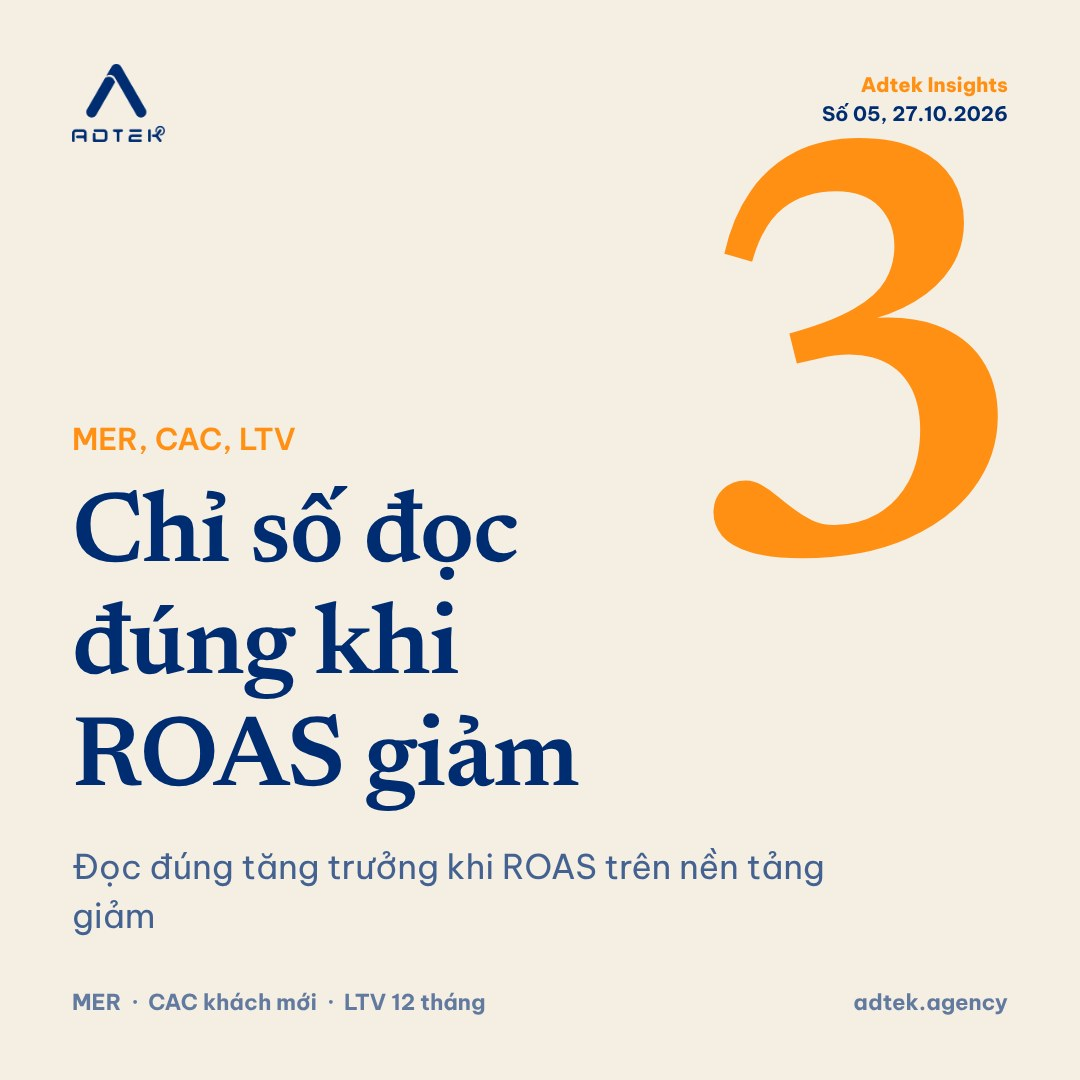
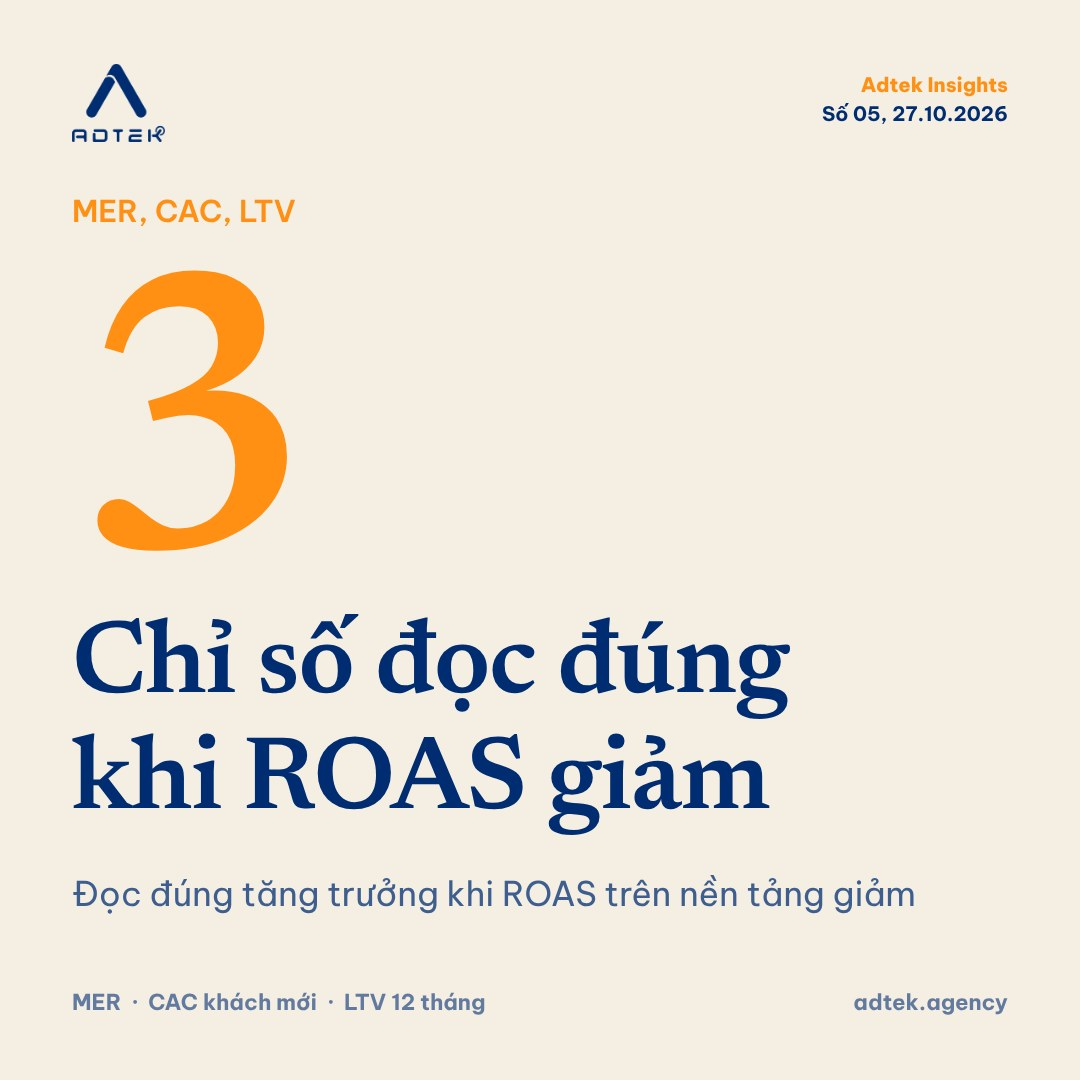
Covers: number always sits right before its phrase (left or above), tighter number-phrase units
Claude-Session: https://claude.ai/code/session_01Wp8F7EosGPrY7v6XwBpRSM

diff --git a/tools/covers.py b/tools/covers.py
@@ -42,7 +42,8 @@ $css
 /* Chữ: tiêu đề và con số dùng Newsreader (chữ có chân kiểu báo chí), viết thường như câu; nhãn và mô tả dùng Be Vietnam Pro nhẹ.
    Đặt sau CSS của từng phong cách để thống nhất kiểu chữ cho cả bộ. */
 h1,.num,.name,.cap,.disc span,.vs{font-family:NR,serif;font-weight:600;text-transform:none;letter-spacing:-.012em}
-.num,.disc span{letter-spacing:-.03em}
+.num,.disc span{letter-spacing:-.03em;font-variant-numeric:lining-nums}
+.kicker+.num{margin-top:.1em}  /* phần trên của chữ số cao hơn khung dòng, chừa chỗ để không chạm nhãn */
 .kicker{font-weight:600;letter-spacing:0}
 .sub,.band{font-weight:400}
 </style></head><body class="$shape" data-fit="1">$body
@@ -82,6 +83,8 @@ def fields(post, kind):
         "head": esc((c.get("hero_text") or c["title"]) if fb else c["title"]),
         "num": esc(c.get("hero") or f"{post['no']:02d}"),
         "cap": esc(c.get("hero_text") or ""),
+        # paired: tiêu đề chính là cụm chữ đọc liền sau con số (khổ Facebook), nên số phải đứng ngay trước tiêu đề
+        "paired": fb and bool(c.get("hero_text")),
         "title": esc(c["title"]),
         "sub": esc(c["subtitle"]),
         "chips": [esc(x) for x in c.get("chips", [])[:4]],
@@ -136,78 +139,85 @@ font-weight:700;font-size:{v['sub']:.0f}px;line-height:1.38;text-align:left;text
 
 
 def editorial(f, sq):
-    """Tạp chí: nền kem phẳng, số cam đặc khổng lồ, tiêu đề navy đậm, không kẻ dòng."""
+    """Tạp chí: nền kem phẳng, số cam lớn đặt ngay trên cụm chữ đi kèm, chữ navy."""
     n = len(f["num"])
-    hero = (600 if n == 1 else 460 if n == 2 else 300) if sq else (430 if n == 1 else 300 if n == 2 else 200)
     chips = " &nbsp;·&nbsp; ".join(f["chips"][:3])
+    if f["paired"]:  # số đọc liền với tiêu đề: số ở trên, tiêu đề ngay dưới
+        hero = 400 if n == 1 else 340 if n == 2 else 230
+        main = f"""<div class="copy"><div class="kicker">{f['kicker']}</div><div class="num">{f['num']}</div>
+<h1 class="fit bal">{f['head']}</h1><div class="sub fit">{f['sub']}</div></div>"""
+    else:  # tiêu đề riêng; số và cụm chữ của nó thành một khối bên phải, số trên chữ dưới
+        hero = 300 if n == 1 else 230 if n == 2 else 160
+        unit = f'<div class="unit"><div class="num">{f["num"]}</div><div class="cap fit bal">{f["cap"]}</div></div>' if f["cap"] else ""
+        main = f"""<div class="copy"><div class="kicker">{f['kicker']}</div><h1 class="fit bal">{f['head']}</h1><div class="sub fit">{f['sub']}</div></div>{unit}"""
     css = f"""
 body{{background:{CREAM};color:{NAVY}}}
 .meta{{position:absolute;text-align:right;font-weight:700;line-height:1.45;color:{NAVY}}}
 .meta b{{font-weight:800;color:{ORANGE}}}
-.num{{position:absolute;font-weight:900;font-size:{hero}px;line-height:.8;letter-spacing:-.06em;color:{ORANGE};white-space:nowrap}}
-.copy{{position:absolute}}
-.kicker{{font-weight:800;color:{ORANGE}}}
-h1{{font-weight:900;line-height:1.12;letter-spacing:-.015em}}
-.sub{{font-weight:600;line-height:1.42;color:rgba(0,45,114,.72)}}
+.num{{font-size:{hero}px;line-height:.8;color:{ORANGE};white-space:nowrap}}
+.copy,.unit{{position:absolute}}
+.kicker{{color:{ORANGE}}}
+h1{{line-height:1.12}}
+.sub{{line-height:1.42;color:rgba(0,45,114,.75)}}
+.cap{{line-height:1.15;margin-top:-8px;max-height:3.6em}}
 .foot{{position:absolute;display:flex;justify-content:space-between;font-weight:700;color:rgba(0,45,114,.6)}}
 .sq .lg{{position:absolute;left:72px;top:64px}}.sq .meta{{right:72px;top:70px;font-size:20px}}
-.sq .num{{right:56px;top:170px}}
-.sq .copy{{left:72px;right:72px;bottom:140px}}
-.sq .kicker{{font-size:30px}}
-.sq h1{{font-size:100px;margin:14px 0 22px;max-height:3.5em;max-width:640px}}
-.sq .sub{{font-size:34px;max-width:820px;max-height:4.4em}}
+.sq .copy{{left:72px;right:72px;top:150px;bottom:120px;display:flex;flex-direction:column;justify-content:center}}
+.sq .kicker{{font-size:30px;margin-bottom:22px}}
+.sq h1{{font-size:104px;margin:-.12em 0 24px;max-height:3.4em}}
+.sq .sub{{font-size:34px;max-width:860px;max-height:3em}}
 .sq .foot{{left:72px;right:72px;bottom:64px;font-size:22px}}
 .ls .lg{{position:absolute;left:140px;top:44px}}.ls .meta{{right:140px;top:50px;font-size:15px}}
-.ls .num{{right:140px;top:140px}}
-.ls .copy{{left:140px;top:160px;width:{600 if n == 1 else 540}px}}
+.ls .copy{{left:140px;top:150px;width:520px}}
 .ls .kicker{{font-size:22px}}
 .ls h1{{font-size:76px;margin:10px 0 16px;max-height:2.3em}}
 .ls .sub{{font-size:25px;max-height:4.4em}}
+.ls .unit{{left:740px;right:140px;top:150px}}
+.ls .cap{{font-size:28px}}
 .ls .foot{{left:140px;right:140px;bottom:42px;font-size:17px}}"""
     body = f"""<div class="lg">{logo(NAVY, 78 if sq else 58)}</div><div class="meta"><b>Adtek Insights</b><br>Số {f['no']:02d}, {f['date']}</div>
-<div class="num">{f['num']}</div>
-<div class="copy"><div class="kicker">{f['kicker']}</div><h1 class="fit bal">{f['head']}</h1><div class="sub fit">{f['sub']}</div></div>
-<div class="foot"><div>{chips}</div><div>adtek.agency</div></div>"""
+{main}<div class="foot"><div>{chips}</div><div>adtek.agency</div></div>"""
     return css, body
 
 
 def split(f, sq):
-    """Khối tương phản: mảng cam cắt chéo chứa số navy, nửa còn lại navy chứa tiêu đề. Màu phẳng."""
+    """Khối tương phản: mảng cam cắt chéo chứa số navy và cụm chữ đi kèm ngay bên phải hoặc ngay bên dưới số."""
     n = len(f["num"])
     chips = " &nbsp;·&nbsp; ".join(f["chips"][:3])
     if sq:
-        hero = 520 if n == 1 else 360 if n == 2 else 240
-        own_head = f["head"] != f["cap"]
+        hero = 400 if n == 1 else 330 if n == 2 else 220
         css = f"""
 body{{background:{NAVY};color:#fff}}
-.panel{{position:absolute;left:0;top:0;right:0;height:560px;background:{ORANGE};clip-path:polygon(0 0,100% 0,100% 74%,0 100%)}}
-.num{{position:absolute;left:56px;top:60px;font-weight:900;font-size:{hero}px;line-height:.82;letter-spacing:-.05em;color:{NAVY};white-space:nowrap}}
-.cap{{position:absolute;right:72px;top:250px;width:{420 if n == 1 else 360}px;font-weight:900;font-size:48px;line-height:1.14;color:{NAVY};max-height:4.7em}}
-.lg{{position:absolute;right:72px;top:64px}}
+.panel{{position:absolute;left:0;top:0;right:0;height:580px;background:{ORANGE};clip-path:polygon(0 0,100% 0,100% 72%,0 100%)}}
+.unit{{position:absolute;left:64px;right:72px;top:150px;display:flex;align-items:flex-end;gap:30px}}
+.num{{flex:none;font-size:{hero}px;line-height:.8;color:{NAVY};white-space:nowrap}}
+.cap{{flex:1;font-size:56px;line-height:1.1;color:{NAVY};max-height:3.4em;padding-bottom:6px}}
+.lg{{position:absolute;right:72px;top:56px}}
 .copy{{position:absolute;left:72px;right:72px;bottom:72px}}
-.kicker{{color:{ORANGE};font-weight:800;font-size:30px}}
-h1{{font-weight:900;font-size:76px;line-height:1.14;margin:12px 0 20px;max-height:3.5em}}
-.sub{{font-weight:600;font-size:32px;line-height:1.4;color:#C9D6EE;max-height:4.4em}}
-.chips{{font-weight:700;font-size:24px;color:{ORANGE}}}"""
-        body = f"""<div class="panel"></div><div class="num">{f['num']}</div><div class="lg">{logo(NAVY, 92)}</div>
-<div class="cap fit bal">{f['cap'] or f['kicker']}</div>
-<div class="copy"><div class="kicker">{f['kicker']}</div><h1 class="fit bal">{f['head'] if own_head else f['sub']}</h1>
-{f'<div class="sub fit">{f["sub"]}</div>' if own_head else ''}<div class="chips">{chips}</div></div>"""
+.kicker{{color:{ORANGE};font-size:30px}}
+h1{{font-size:68px;line-height:1.14;margin:12px 0 20px;max-height:3.5em}}
+.sub{{font-size:32px;line-height:1.4;color:#C9D6EE;max-height:4.4em}}
+.chips{{font-weight:600;font-size:24px;color:{ORANGE}}}"""
+        rest = f'<h1 class="fit bal">{f["sub"]}</h1>' if f["paired"] else f'<h1 class="fit bal">{f["head"]}</h1><div class="sub fit">{f["sub"]}</div>'
+        body = f"""<div class="panel"></div><div class="lg">{logo(NAVY, 84)}</div>
+<div class="unit"><div class="num">{f['num']}</div><div class="cap fit bal">{f['cap'] or f['kicker']}</div></div>
+<div class="copy"><div class="kicker">{f['kicker']}</div>{rest}<div class="chips">{chips}</div></div>"""
         return css, body
-    hero = 400 if n == 1 else 240 if n == 2 else 170
+    hero = 300 if n == 1 else 220 if n == 2 else 150
     css = f"""
 body{{background:{NAVY};color:#fff}}
-.panel{{position:absolute;left:0;top:0;bottom:0;width:560px;background:{ORANGE};clip-path:polygon(0 0,100% 0,80% 100%,0 100%)}}
-.num{{position:absolute;left:140px;top:50%;transform:translateY(-54%);width:300px;text-align:center;font-weight:900;font-size:{hero}px;line-height:.82;letter-spacing:-.05em;color:{NAVY};white-space:nowrap}}
-.cap{{position:absolute;left:140px;bottom:46px;width:300px;text-align:center;font-weight:800;font-size:22px;line-height:1.25;color:{NAVY};max-height:2.7em}}
-.copy{{position:absolute;left:590px;right:140px;top:0;bottom:0;display:flex;flex-direction:column;justify-content:center}}
+.panel{{position:absolute;left:0;top:0;bottom:0;width:580px;background:{ORANGE};clip-path:polygon(0 0,100% 0,80% 100%,0 100%)}}
+.unit{{position:absolute;left:140px;width:300px;top:0;bottom:0;display:flex;flex-direction:column;justify-content:center}}
+.num{{font-size:{hero}px;line-height:.8;color:{NAVY};white-space:nowrap}}
+.cap{{margin-top:16px;font-size:32px;line-height:1.12;color:{NAVY};max-height:3.4em}}
+.copy{{position:absolute;left:600px;right:140px;top:0;bottom:0;display:flex;flex-direction:column;justify-content:center}}
 .lg{{position:absolute;right:140px;top:44px}}
-.kicker{{color:{ORANGE};font-weight:800;font-size:24px}}
-h1{{font-weight:900;font-size:84px;line-height:1.1;margin:10px 0 16px;max-height:2.3em}}
-.sub{{font-weight:600;font-size:25px;line-height:1.4;color:#C9D6EE;max-height:4.3em}}
-.chips{{margin-top:22px;font-weight:700;font-size:19px;color:{ORANGE}}}"""
-    body = f"""<div class="panel"></div><div class="num">{f['num']}</div><div class="cap fit bal">{f['cap']}</div>
-<div class="lg">{logo('#fff', 64)}</div>
+.kicker{{color:{ORANGE};font-size:23px}}
+h1{{font-size:80px;line-height:1.1;margin:10px 0 16px;max-height:2.3em}}
+.sub{{font-size:25px;line-height:1.4;color:#C9D6EE;max-height:4.3em}}
+.chips{{margin-top:22px;font-weight:600;font-size:19px;color:{ORANGE}}}"""
+    body = f"""<div class="panel"></div><div class="unit"><div class="num">{f['num']}</div><div class="cap fit bal">{f['cap']}</div></div>
+<div class="lg">{logo('#fff', 60)}</div>
 <div class="copy"><div class="kicker">{f['kicker']}</div><h1 class="fit bal">{f['head']}</h1><div class="sub fit">{f['sub']}</div><div class="chips">{chips}</div></div>"""
     return css, body
 
@@ -248,64 +258,75 @@ h1{{font-weight:900;line-height:1.12;letter-spacing:-.01em}}
 
 
 def stack(f, sq):
-    """Hai tầng màu: khối navy chứa tiêu đề, nền kem chứa mô tả, đĩa cam đặc chứa con số."""
+    """Hai tầng màu: khối navy và nền kem; đĩa cam chứa con số, cụm chữ đi kèm nằm ngay bên phải hoặc ngay dưới đĩa."""
     n = len(f["num"])
+    if sq:
+        css = f"""
+body{{background:{CREAM};color:{NAVY}}}
+.top{{position:absolute;left:0;right:0;top:0;height:660px;background:{NAVY};color:#fff;padding:190px 72px 0}}
+.lg{{position:absolute;left:72px;top:64px}}
+.kicker{{color:{ORANGE};font-size:30px;margin-bottom:30px}}
+.row{{display:flex;align-items:center;gap:36px}}
+.disc{{flex:none;width:280px;height:280px;border-radius:50%;background:{ORANGE};display:flex;align-items:center;justify-content:center}}
+.disc span{{font-size:{170 if n == 1 else 140 if n == 2 else 90}px;line-height:1;color:{NAVY};white-space:nowrap}}
+h1{{flex:1;font-size:74px;line-height:1.12;max-height:4.5em}}
+.sub{{position:absolute;left:72px;right:72px;top:730px;font-size:40px;line-height:1.38;max-height:4.2em}}
+.chips{{position:absolute;left:72px;bottom:64px;font-weight:600;font-size:24px;color:{ORANGE}}}"""
+        head = f["head"] if f["paired"] else f["cap"] or f["head"]
+        body = f"""<div class="top"><div class="kicker">{f['kicker']}</div><div class="row"><div class="disc"><span>{f['num']}</span></div>
+<h1 class="fit bal">{head}</h1></div></div><div class="lg">{logo('#fff', 74)}</div><div class="sub fit">{f['sub']}</div>
+<div class="chips">{' &nbsp;·&nbsp; '.join(f['chips'][:3])}</div>"""
+        return css, body
     css = f"""
 body{{background:{CREAM};color:{NAVY}}}
-.top{{position:absolute;background:{NAVY};color:#fff}}
-.kicker{{color:{ORANGE};font-weight:800}}
-h1{{font-weight:900;line-height:1.12;letter-spacing:-.01em}}
-.sub{{position:absolute;font-weight:700;line-height:1.42}}
-.disc{{position:absolute;border-radius:50%;background:{ORANGE};display:flex;align-items:center;justify-content:center}}
-.disc span{{font-weight:900;line-height:1;letter-spacing:-.05em;color:{NAVY};white-space:nowrap;transform:translateY(-.04em)}}
-.lg{{position:absolute}}
-.sq .top{{left:0;right:0;top:0;height:640px;padding:200px 72px 0}}
-.sq .lg{{left:72px;top:64px}}
-.sq .kicker{{font-size:30px}}
-.sq h1{{font-size:96px;margin-top:14px;max-height:3.4em;max-width:900px}}
-.sq .sub{{left:72px;bottom:72px;width:520px;font-size:32px;max-height:5.8em}}
-.sq .disc{{width:400px;height:400px;right:72px;top:520px}}
-.sq .disc span{{font-size:{230 if n == 1 else 190 if n == 2 else 120}px}}
-.ls .top{{left:0;top:0;bottom:0;width:740px;padding:0 60px 0 140px;display:flex;flex-direction:column;justify-content:center}}
-.ls .lg{{left:140px;top:44px}}
-.ls .kicker{{font-size:23px}}
-.ls h1{{font-size:80px;margin:10px 0 0;max-height:3.4em}}
-.ls .sub{{left:780px;right:140px;bottom:56px;font-size:20px;max-height:4.3em}}
-.ls .disc{{width:280px;height:280px;left:785px;top:60px}}
-.ls .disc span{{font-size:{170 if n == 1 else 130 if n == 2 else 84}px}}"""
-    body = f"""<div class="top"><div class="kicker">{f['kicker']}</div><h1 class="fit bal">{f['head']}</h1></div>
-<div class="lg">{logo('#fff', 74 if sq else 56)}</div><div class="disc"><span>{f['num']}</span></div><div class="sub fit">{f['sub']}</div>"""
+.top{{position:absolute;left:0;top:0;bottom:0;width:740px;padding:0 60px 0 140px;background:{NAVY};color:#fff;display:flex;flex-direction:column;justify-content:center}}
+.lg{{position:absolute;left:140px;top:44px}}
+.kicker{{color:{ORANGE};font-size:23px}}
+h1{{font-size:80px;line-height:1.12;margin:10px 0 16px;max-height:2.3em}}
+.sub{{font-size:24px;line-height:1.42;color:#C9D6EE;max-height:4.3em}}
+.unit{{position:absolute;left:780px;right:140px;top:0;bottom:0;display:flex;flex-direction:column;justify-content:center}}
+.disc{{width:220px;height:220px;border-radius:50%;background:{ORANGE};display:flex;align-items:center;justify-content:center}}
+.disc span{{font-size:{140 if n == 1 else 110 if n == 2 else 70}px;line-height:1;color:{NAVY};white-space:nowrap}}
+.cap{{margin-top:18px;font-size:30px;line-height:1.15;max-height:3.5em}}"""
+    unit = f'<div class="unit"><div class="disc"><span>{f["num"]}</span></div><div class="cap fit bal">{f["cap"]}</div></div>' if f["cap"] else ""
+    body = f"""<div class="top"><div class="kicker">{f['kicker']}</div><h1 class="fit bal">{f['head']}</h1><div class="sub fit">{f['sub']}</div></div>
+<div class="lg">{logo('#fff', 56)}</div>{unit}"""
     return css, body
 
 
 def poster(f, sq):
-    """Áp phích: nền cam phẳng, số navy khổng lồ tràn mép, tiêu đề in hoa, góc tròn navy giữ logo."""
+    """Áp phích: nền cam phẳng, số navy rất lớn đứng ngay trước cụm chữ đi kèm (trên chữ ở khổ vuông, trái chữ ở khổ ngang)."""
     n = len(f["num"])
-    hero = (720 if n == 1 else 600 if n == 2 else 400) if sq else (600 if n == 1 else 420 if n == 2 else 280)
     css = f"""
 body{{background:{ORANGE};color:{NAVY}}}
-.num{{position:absolute;font-weight:900;font-size:{hero}px;line-height:.78;letter-spacing:-.06em;color:{NAVY};white-space:nowrap}}
 .corner{{position:absolute;border-radius:50%;background:{NAVY}}}
-.kicker{{font-weight:800}}
-h1{{font-weight:900;line-height:1.1;text-transform:uppercase;letter-spacing:-.01em}}
-.sub{{font-weight:700;line-height:1.38}}
 .lg{{position:absolute}}
-.sq .num{{left:-30px;top:30px}}
+.num{{font-size:var(--hero);line-height:.78;color:{NAVY};white-space:nowrap}}
+h1{{line-height:1.1}}
+.sub{{line-height:1.4}}
+.sq{{--hero:{560 if n == 1 else 470 if n == 2 else 320}px}}
 .sq .corner{{width:440px;height:440px;right:-170px;top:-170px}}
 .sq .lg{{right:64px;top:60px}}
-.sq .copy{{position:absolute;left:72px;right:72px;bottom:72px}}
-.sq .kicker{{font-size:30px}}
-.sq h1{{font-size:96px;margin:14px 0 20px;max-height:3.4em}}
-.sq .sub{{font-size:32px;max-height:4.2em}}
-.ls .num{{left:110px;bottom:-40px}}
+.sq .copy{{position:absolute;left:64px;right:72px;top:64px}}
+.sq .kicker{{font-size:30px;margin:0 0 20px 8px}}
+.sq h1{{font-size:92px;margin:10px 0 18px 8px;max-height:3.4em}}
+.sq .sub{{font-size:32px;max-height:2.9em;margin-left:8px}}
+.ls{{--hero:{420 if n == 1 else 330 if n == 2 else 220}px}}
 .ls .corner{{width:380px;height:380px;right:-110px;top:-150px}}
 .ls .lg{{right:140px;top:46px}}
-.ls .copy{{position:absolute;left:{'570' if n == 1 else '660'}px;right:140px;top:0;bottom:0;display:flex;flex-direction:column;justify-content:center;align-items:flex-start}}
+.ls .copy{{position:absolute;left:140px;right:140px;top:0;bottom:0;display:flex;align-items:center;gap:44px}}
+.ls .num{{flex:none}}
+.ls .text{{flex:1}}
 .ls .kicker{{font-size:22px}}
-.ls h1{{font-size:74px;margin:10px 0 16px;max-height:3.4em}}
-.ls .sub{{font-size:24px;max-height:4.2em}}"""
-    body = f"""<div class="corner"></div><div class="num">{f['num']}</div><div class="lg">{logo('#fff', 80 if sq else 58)}</div>
-<div class="copy"><div class="kicker">{f['kicker']}</div><h1 class="fit bal">{f['head']}</h1><div class="sub fit">{f['sub']}</div></div>"""
+.ls h1{{font-size:64px;margin:8px 0 14px;max-height:3.4em}}
+.ls .sub{{font-size:23px;max-height:4.2em}}"""
+    if sq:
+        inner = f"""<div class="kicker">{f['kicker']}</div><div class="num">{f['num']}</div>
+<h1 class="fit bal">{f['head']}</h1><div class="sub fit">{f['sub']}</div>"""
+    else:  # khổ ngang: số bên trái, cụm chữ của số làm tiêu đề ngay bên phải, tên bài làm nhãn
+        inner = f"""<div class="num">{f['num']}</div><div class="text"><div class="kicker">{f['title']}</div>
+<h1 class="fit bal">{f['cap'] or f['head']}</h1><div class="sub fit">{f['sub']}</div></div>"""
+    body = f"""<div class="corner"></div><div class="lg">{logo('#fff', 80 if sq else 58)}</div><div class="copy">{inner}</div>"""
     return css, body
 
 

diff --git a/content/editorial/README.md b/content/editorial/README.md
@@ -6,7 +6,7 @@ Lịch đăng, cụm chủ đề và danh sách bài nằm trong `calendar.json`
 
 - 2 bài/tuần, mỗi bài khoảng 2,000 chữ, đăng Thứ Ba và Thứ Năm. Giờ đăng không cố định: mỗi bài chọn ngẫu nhiên khung 12:00-12:59 hoặc 20:00-20:59 (trường `time` trong `calendar.json`, gán bằng `python3 tools/blog_post.py retime` cho bài chưa đăng).
 - Mỗi bài cần có một phần chỉ Adtek viết được: mini-case ẩn danh, số liệu từ dự án, khung hoặc checklist dùng ngay.
-- Tác giả Tin Le, có SEO title, meta description và ảnh bìa. Ảnh bìa blog (1200x630, `python3 tools/blog_post.py cover X`) và ảnh Facebook (1:1, `python3 tools/fb_post.py cover X`) dựng từ bộ mẫu `tools/covers.py`: 7 phong cách thiết kế phẳng, chỉ dùng màu navy, cam, kem của Adtek, không đường kẻ hay gạch chân, không gradient, quầng sáng, kính mờ, bóng đổ (anh Tin yêu cầu 16/10/2026: không giống ảnh AI): tạp chí nền kem, khối cam navy cắt chéo, chữ A Adtek cỡ lớn, hai tầng màu có đĩa số cam, áp phích nền cam; đối đầu A vs B cho bài so sánh, hồ sơ pháp lý cho bài luật. Mẫu tím neon 3D cũ chỉ dùng khi ghi tay `cover.style`. Chữ: tiêu đề và con số lớn dùng Newsreader 600 (chữ có chân kiểu báo chí, viết thường như câu), nhãn và mô tả dùng Be Vietnam Pro 400 đến 600; không dùng chữ in hoa giãn khoảng cho tiêu đề. Lần dựng đầu, hệ thống tự chọn phong cách theo nội dung (phương án A anh Tin chọn 16/10/2026): bài có "vs" trong `cover.title` dùng mẫu đối đầu, bài luật dùng mẫu hồ sơ (nếu 2 bài liền trước chưa dùng), còn lại xoay vòng 5 mẫu chung và tránh 3 bài liền trước; phong cách được ghi vào `cover.style` để dựng lại vẫn giữ nguyên, muốn đổi thì sửa tay trường này. Dữ liệu ảnh: `cover.kicker`, `title`, `subtitle`, `chips` (blog) và `hero`, `hero_text`, `fb_kicker` (Facebook, một số mẫu blog cũng dùng số `hero`). Chữ trên ảnh blog nằm cách mép trái phải 140px vì trang danh sách bài cắt giữa ảnh. Xem thử mọi phong cách cho một bài: `python3 tools/covers.py sheet X`. Đổi ảnh bìa bài đã đưa lên WordPress: `python3 tools/blog_post.py recover X [--delete-old]`. Ảnh do phiên "Adtek - Designer" dựng và commit; phiên "Adtek - Blog post" chỉ tải lên (`recover` dùng đúng file có sẵn).
+- Tác giả Tin Le, có SEO title, meta description và ảnh bìa. Ảnh bìa blog (1200x630, `python3 tools/blog_post.py cover X`) và ảnh Facebook (1:1, `python3 tools/fb_post.py cover X`) dựng từ bộ mẫu `tools/covers.py`: 7 phong cách thiết kế phẳng, chỉ dùng màu navy, cam, kem của Adtek, không đường kẻ hay gạch chân, không gradient, quầng sáng, kính mờ, bóng đổ (anh Tin yêu cầu 16/10/2026: không giống ảnh AI): tạp chí nền kem, khối cam navy cắt chéo, chữ A Adtek cỡ lớn, hai tầng màu có đĩa số cam, áp phích nền cam; đối đầu A vs B cho bài so sánh, hồ sơ pháp lý cho bài luật. Mẫu tím neon 3D cũ chỉ dùng khi ghi tay `cover.style`. Chữ: tiêu đề và con số lớn dùng Newsreader 600 (chữ có chân kiểu báo chí, viết thường như câu), nhãn và mô tả dùng Be Vietnam Pro 400 đến 600; không dùng chữ in hoa giãn khoảng cho tiêu đề. Con số lớn (`cover.hero`) luôn đứng sát cụm chữ đi kèm (`cover.hero_text`) và đứng trước theo thứ tự đọc: bên trái hoặc phía trên cụm chữ, không đặt số một nơi, chữ một nẻo. Lần dựng đầu, hệ thống tự chọn phong cách theo nội dung (phương án A anh Tin chọn 16/10/2026): bài có "vs" trong `cover.title` dùng mẫu đối đầu, bài luật dùng mẫu hồ sơ (nếu 2 bài liền trước chưa dùng), còn lại xoay vòng 5 mẫu chung và tránh 3 bài liền trước; phong cách được ghi vào `cover.style` để dựng lại vẫn giữ nguyên, muốn đổi thì sửa tay trường này. Dữ liệu ảnh: `cover.kicker`, `title`, `subtitle`, `chips` (blog) và `hero`, `hero_text`, `fb_kicker` (Facebook, một số mẫu blog cũng dùng số `hero`). Chữ trên ảnh blog nằm cách mép trái phải 140px vì trang danh sách bài cắt giữa ảnh. Xem thử mọi phong cách cho một bài: `python3 tools/covers.py sheet X`. Đổi ảnh bìa bài đã đưa lên WordPress: `python3 tools/blog_post.py recover X [--delete-old]`. Ảnh do phiên "Adtek - Designer" dựng và commit; phiên "Adtek - Blog post" chỉ tải lên (`recover` dùng đúng file có sẵn).
 
 ## Quy trình viết và duyệt
 

diff --git a/logs/changelog.md b/logs/changelog.md
@@ -74,3 +74,4 @@
 | 2026-10-16 10:40 | Ảnh bìa blog: thêm khổ ngang 1200x630 cho phong cách Facebook (fb_post.cover có tham số out), blog_post.py cover dùng phong cách này làm ảnh tạm, thêm lệnh recover (tải content/posts/<slug>-cover.jpg lên, thay ảnh đại diện, xác minh lại bằng GET khi proxy cắt phản hồi, --delete-old xóa ảnh cũ). Đã thay ảnh đại diện bài 1-3 (media 6115, 6116, 6117; xóa 6085, 6087, 6092). Anh Tin chốt dùng bộ nhiều phong cách (tools/covers.py) của phiên "Adtek - Designer": dừng thay bài 4-6, từ nay cover do phiên Designer dựng, phiên Blog post chỉ tải lên bằng recover. | Bài 6086, 6088, 6093; tools, README | Đã áp dụng |
 | 2026-10-16 | Theo góp ý của anh Tin (bỏ đường gạch chân, đừng giống AI): làm lại bộ mẫu ảnh bìa theo hướng thiết kế phẳng, chỉ dùng navy, cam, kem; bỏ mọi đường kẻ, viền, gradient, quầng sáng, kính mờ, bóng đổ, khung nghiêng; bỏ mẫu kính mờ và bảng số liệu, mẫu tím neon 3D chỉ dùng khi ghi tay; thêm mẫu chữ A Adtek (tách từ logo, tools/assets/adtek-mark-white.png) và mẫu hai tầng màu. Chọn lại phong cách bài 1 đến 6 (1 khối cắt chéo, 2 chữ A, 3 đối đầu, 4 hồ sơ pháp lý, 5 tạp chí, 6 khối cắt chéo), dựng lại ảnh bìa blog bài 1 đến 6 và ảnh Facebook bài 5, 6. Ảnh Facebook bài 1 đến 4 theo mẫu mới để ở previews/covers/fb-moi-bai-1-4, chưa thay bản đã hẹn đăng | tools, calendar.json, content/posts, previews/covers | Chờ phiên Blog post tải ảnh bìa; chờ anh Tin quyết ảnh Facebook bài 1 đến 4 |
 | 2026-10-16 | Chữ trên ảnh bìa (theo góp ý không giống AI): tiêu đề và con số lớn đổi sang Newsreader 600 (chữ có chân kiểu báo chí, OFL, file trong tools/assets/fonts), viết thường như câu thay cho in hoa đậm 900; nhãn và mô tả dùng Be Vietnam Pro 400 đến 600 (thêm bản 400, 500). Dựng lại ảnh bìa blog bài 1 đến 6, ảnh Facebook bài 5, 6 và bản đề xuất ảnh Facebook bài 1 đến 4 | tools, content/posts, previews/covers | Chờ phiên Blog post tải ảnh bìa; chờ anh Tin quyết ảnh Facebook bài 1 đến 4 |
+| 2026-10-16 | Theo góp ý của anh Tin: con số lớn và cụm chữ đi kèm phải đọc liền, số đứng bên trái hoặc phía trên chữ. Làm lại bố cục mẫu tạp chí, khối cắt chéo, hai tầng màu, áp phích: số và cụm chữ thành một khối sát nhau; khổ blog có tiêu đề riêng thì khối số và chữ đặt riêng một cột (số trên, chữ dưới). Dựng lại ảnh bìa blog bài 1 đến 6, ảnh Facebook bài 5, 6 và bản đề xuất bài 1 đến 4 | tools/covers.py, content/posts, previews/covers | Chờ anh Tin duyệt |
